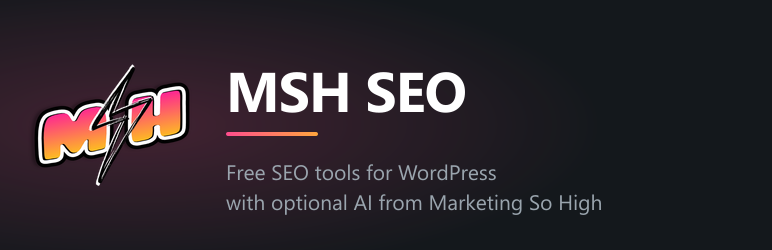
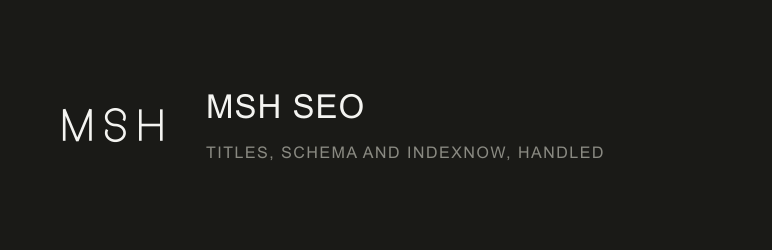
Brand: MSH monogram in the admin console and the .org listing assets
The settings-page hero drew the letters "MH" in a pink gradient — not the
company's initials, and not a mark that exists anywhere else. It now draws the
MSH monogram from the 2026-09-26 identity, one flat colour, sized for the
header. The wordpress.org icon and banner are the same new mark (already live
on the listing, SVN r3714788).

Admin-only change: no front-end output moves, so nothing ships to visitors
until the next release.

Changed region(s): [[0.0, 0.252, 0.7772, 0.728], [0.2798, 0.784, 0.7772, 0.868]]

diff --git a/msh-seo/assets/css/admin.css b/msh-seo/assets/css/admin.css
@@ -159,16 +159,16 @@
 .msh-hero {
     display: flex; align-items: center; justify-content: space-between;
     gap: 16px; margin: 16px 0 20px; padding: 22px 26px;
-    background: linear-gradient(135deg, #ff5c8a, #ff9a3c);
-    border-radius: 16px; color: #fff;
+    background: #1a1a17;
+    border-radius: 14px; color: #f4f4f1;
 }
 .msh-hero__brand { display: flex; align-items: center; gap: 16px; }
 .msh-hero__logo {
     width: 48px; height: 48px; border-radius: 12px;
-    background: rgba(255,255,255,.2); display: flex; align-items: center;
-    justify-content: center; font-weight: 800; font-size: 20px; letter-spacing: .5px;
+    background: rgba(244,244,241,.10); display: flex; align-items: center;
+    justify-content: center; color: #f4f4f1;
 }
-.msh-hero__title { margin: 0; color: #fff; font-size: 24px; line-height: 1.1; }
+.msh-hero__title { margin: 0; color: #f4f4f1; font-size: 24px; line-height: 1.1; letter-spacing: -0.01em; }
 .msh-hero__tagline { margin: 2px 0 0; opacity: .92; font-size: 13px; }
 .msh-hero__version {
     background: rgba(255,255,255,.22); padding: 4px 12px; border-radius: 9999px;

diff --git a/msh-seo/includes/class-msh-admin.php b/msh-seo/includes/class-msh-admin.php
@@ -502,7 +502,11 @@ class MSH_SEO_Admin {
         <div class="wrap msh-settings-wrap">
             <div class="msh-hero">
                 <div class="msh-hero__brand">
-                    <span class="msh-hero__logo">MH</span>
+                    <span class="msh-hero__logo" aria-hidden="true">
+                        <svg viewBox="3 7 31 36" width="22" height="26" fill="none" stroke="currentColor" stroke-width="4.2" stroke-linejoin="bevel" focusable="false">
+                            <path d="M6 40 V10 L18.5 40 L31 10 V40"/>
+                        </svg>
+                    </span>
                     <div>
                         <h1 class="msh-hero__title"><?php esc_html_e( 'MSH SEO', 'msh-seo' ); ?></h1>
                         <p class="msh-hero__tagline"><?php esc_html_e( 'The WordPress limb of your MSH marketing brain', 'msh-seo' ); ?></p>
